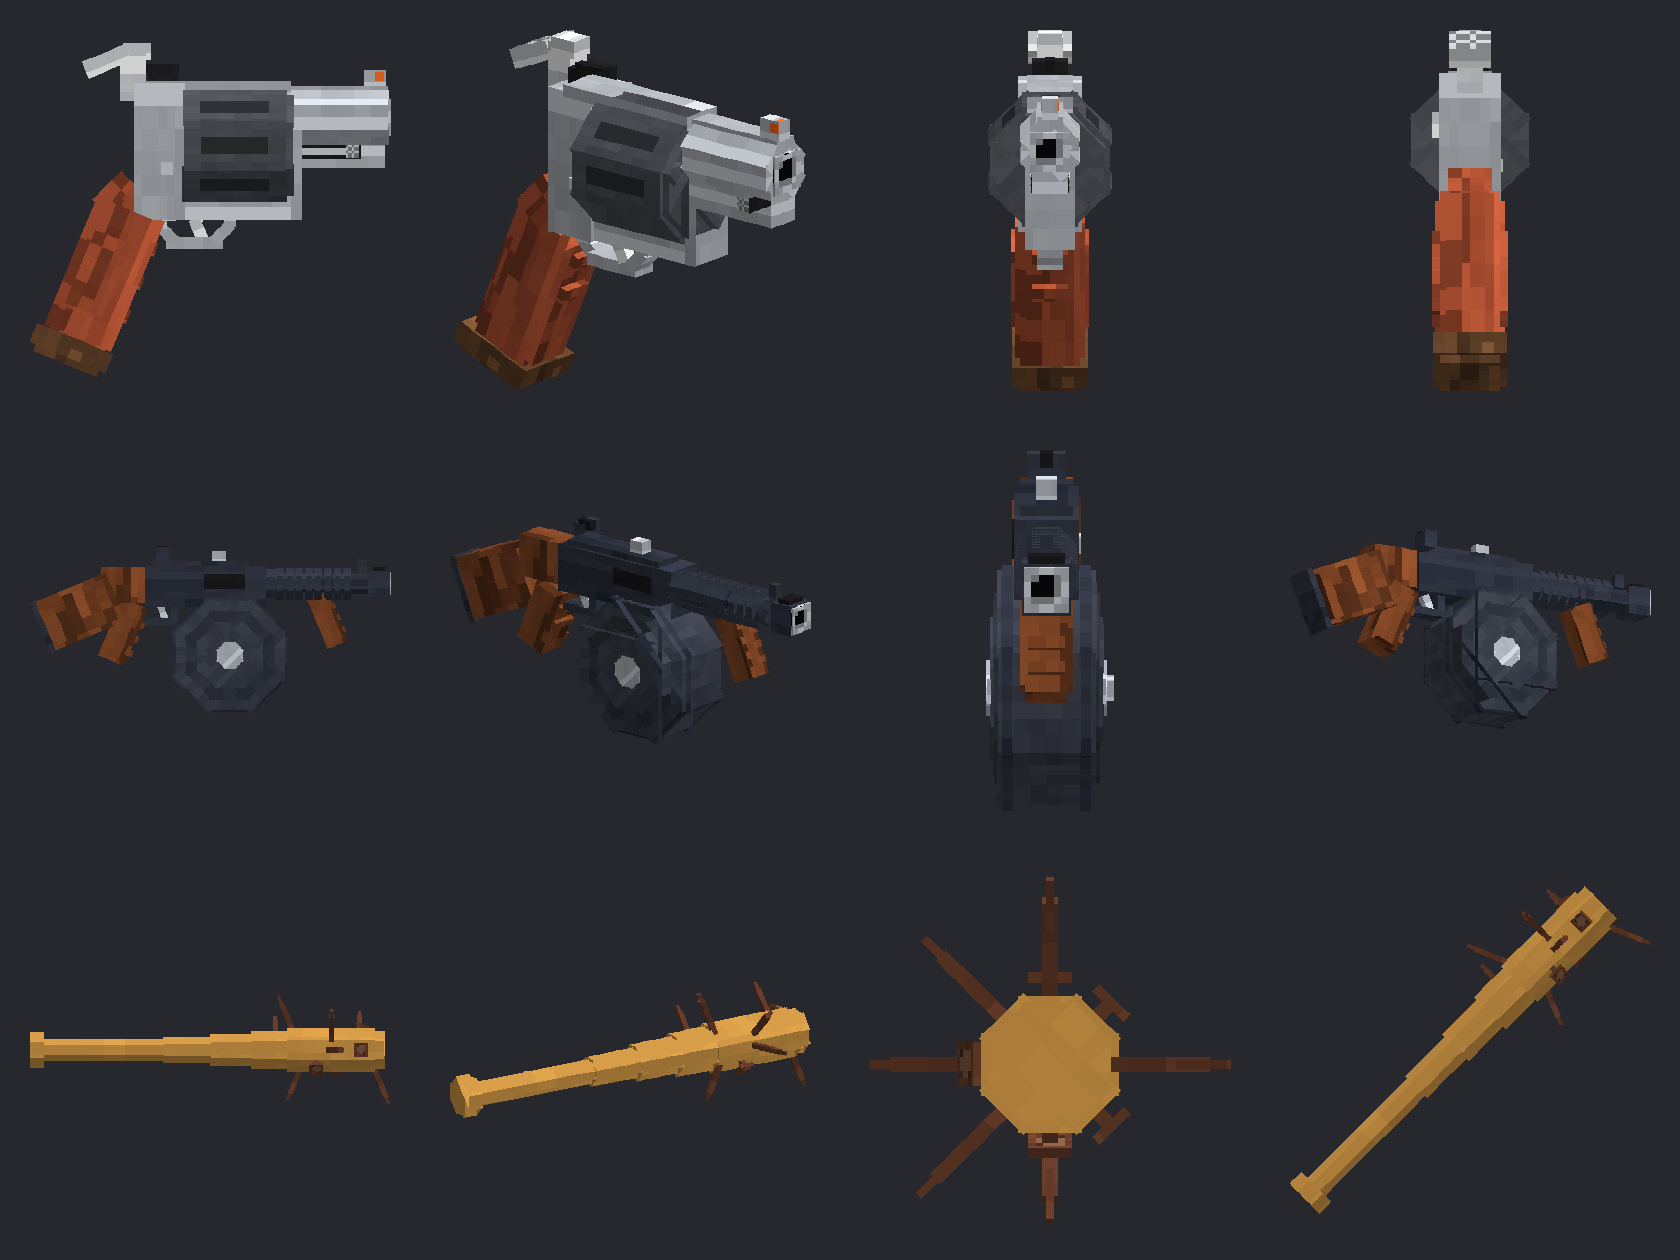
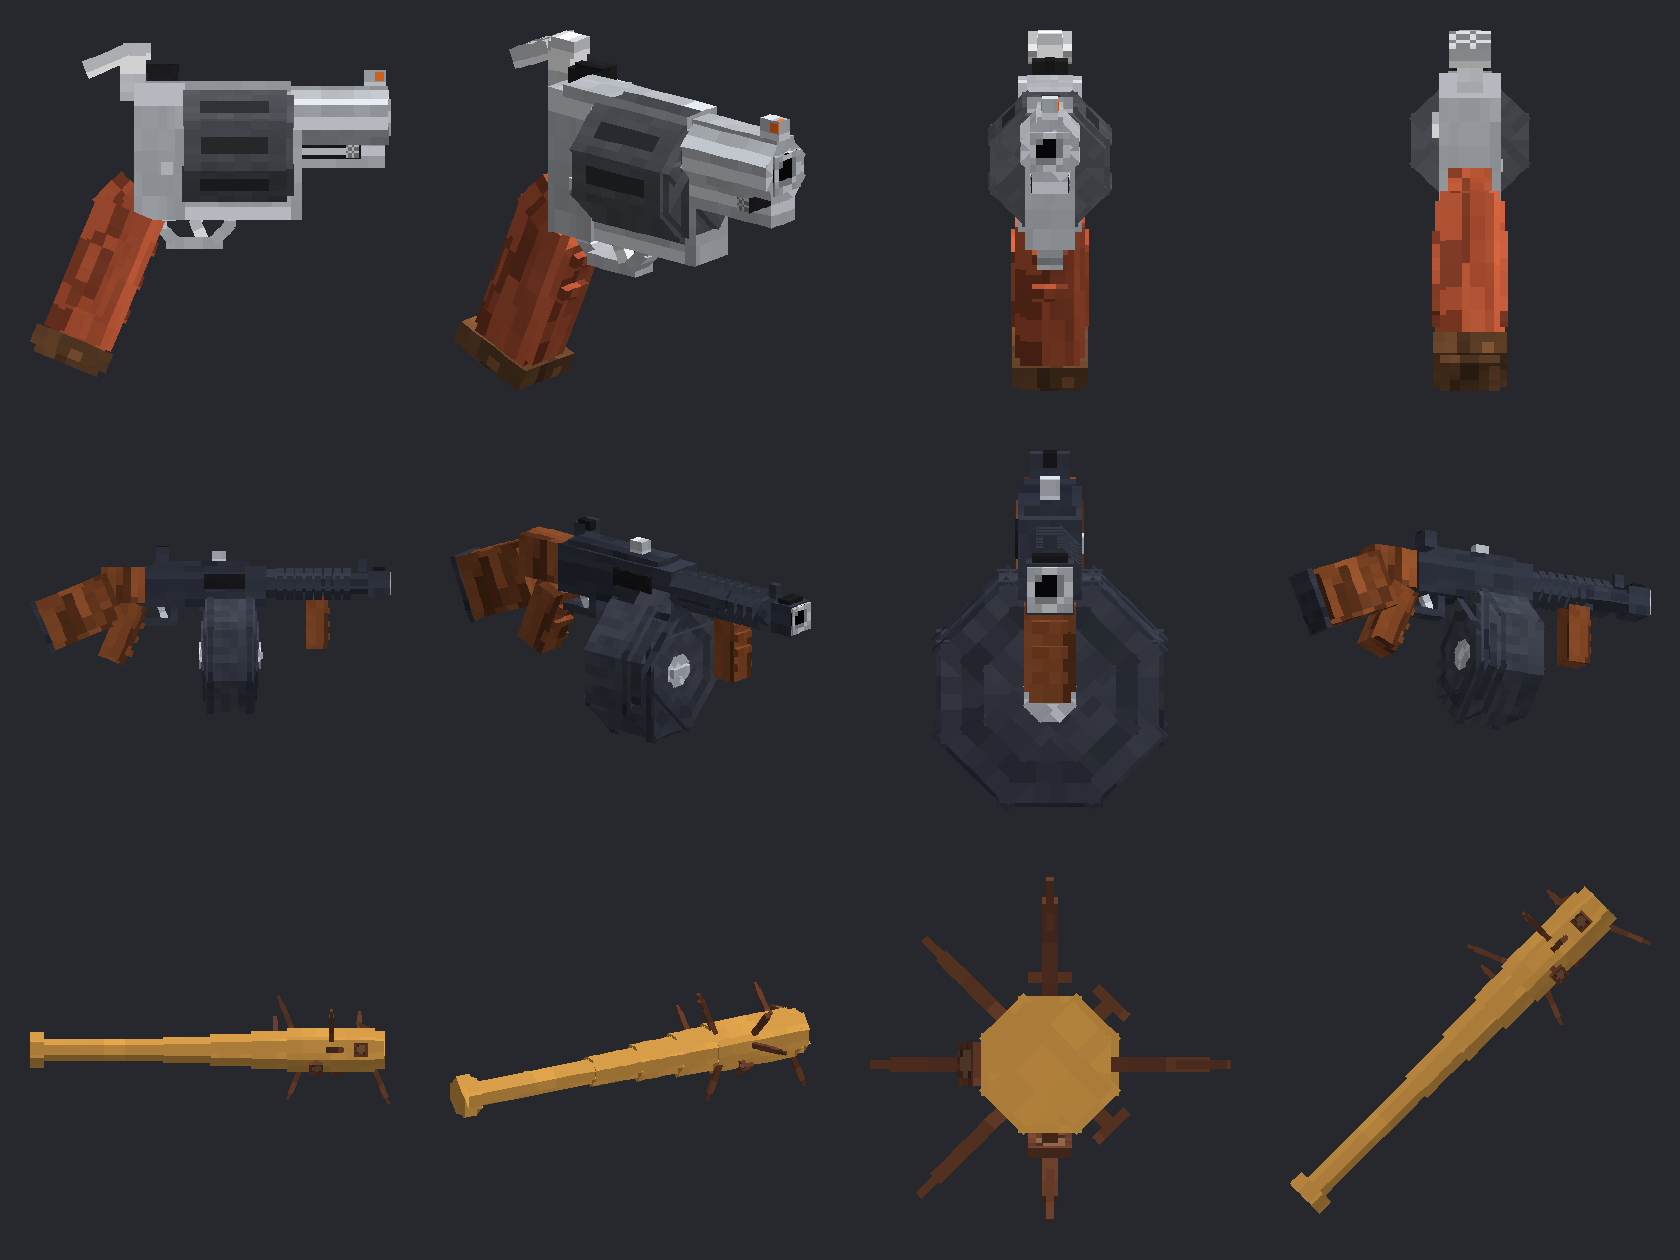
Tommy Gun: straight front grip, drum faces forward
Claude-Session: https://claude.ai/code/session_01G8stAj2NsEdEgKC46eLYfu

diff --git a/tools/make_pack.py b/tools/make_pack.py
@@ -305,22 +305,22 @@ box((6.5, 9.2, -14.6), (9.5, 12.4, -12.0), "steel")                  # compensat
 box((6.9, 12.4, -14.0), (9.1, 12.8, -12.6), "dark")                  # compensator slots
 box((6.6, 9.4, -14.72), (9.4, 12.2, -14.62), "bore")                 # muzzle
 box((7.6, 12.4, -11.8), (8.4, 13.8, -10.8), "steel")                 # front sight blade
-# front pistol grip, raked forward
+# front pistol grip, straight down
 box((7.0, 9.0, -7.4), (9.0, 9.7, -3.6), "steel")                     # mount
-FG = ("x", 22.5, (8, 9.4, -5.5))
+FG = None
 box((6.7, 2.6, -6.8), (9.3, 9.2, -4.2), "walnut", rot=FG)
 box((6.4, 3.2, -6.4), (9.6, 8.6, -4.6), "walnut", rot=FG)            # rounded sides
 for y in (7.0, 5.4, 3.8):                                            # finger ridges
     box((6.9, y, -7.1), (9.1, y + 0.7, -6.6), "walnut", rot=FG)
-# the big drum
-# The flat faces are built from concentric raised steps (not a printed ring), so every layer lines up.
-round_prism_x(1.8, 5.4, 13.6, 5.0, 11.0, "drum_side")
-round_prism_x(1.8, 5.4, 14.2, 5.3, 5.8, "steel")                     # rolled rims
-round_prism_x(1.8, 5.4, 14.2, 10.2, 10.7, "steel")
-round_prism_x(1.8, 5.4, 11.0, 4.78, 11.22, "drum_plate")             # face plate
-round_prism_x(1.8, 5.4, 8.2, 4.56, 11.44, "drum_side")               # pressed centre
-round_prism_x(1.8, 5.4, 3.2, 4.32, 11.68, "polished")                # centre hub
-box((3.8, 1.2, 4.1), (4.2, 2.4, 6.7), "polished")                    # winding key (left side)
+# the big drum, its round face pointing forward (toward the muzzle). The face is built from concentric raised
+# steps (not a printed ring), so every layer lines up.
+round_prism(8, 1.8, 13.6, 2.4, 8.4, "drum_side")
+round_prism(8, 1.8, 14.2, 2.7, 3.2, "steel")                         # rolled rims
+round_prism(8, 1.8, 14.2, 7.6, 8.1, "steel")
+round_prism(8, 1.8, 11.0, 2.18, 8.62, "drum_plate")                  # face plate
+round_prism(8, 1.8, 8.2, 1.96, 8.84, "drum_side")                    # pressed centre
+round_prism(8, 1.8, 3.2, 1.72, 9.08, "polished")                     # centre hub
+box((6.7, 1.4, 1.3), (9.3, 2.2, 1.7), "polished")                    # winding key on the front
 box((6.6, 7.4, 1.6), (9.4, 8.2, 9.2), "steel")                       # magazine well
 # trigger guard, trigger and rear pistol grip
 box((7.0, 5.6, 12.4), (9.0, 6.4, 16.2), "steel")
